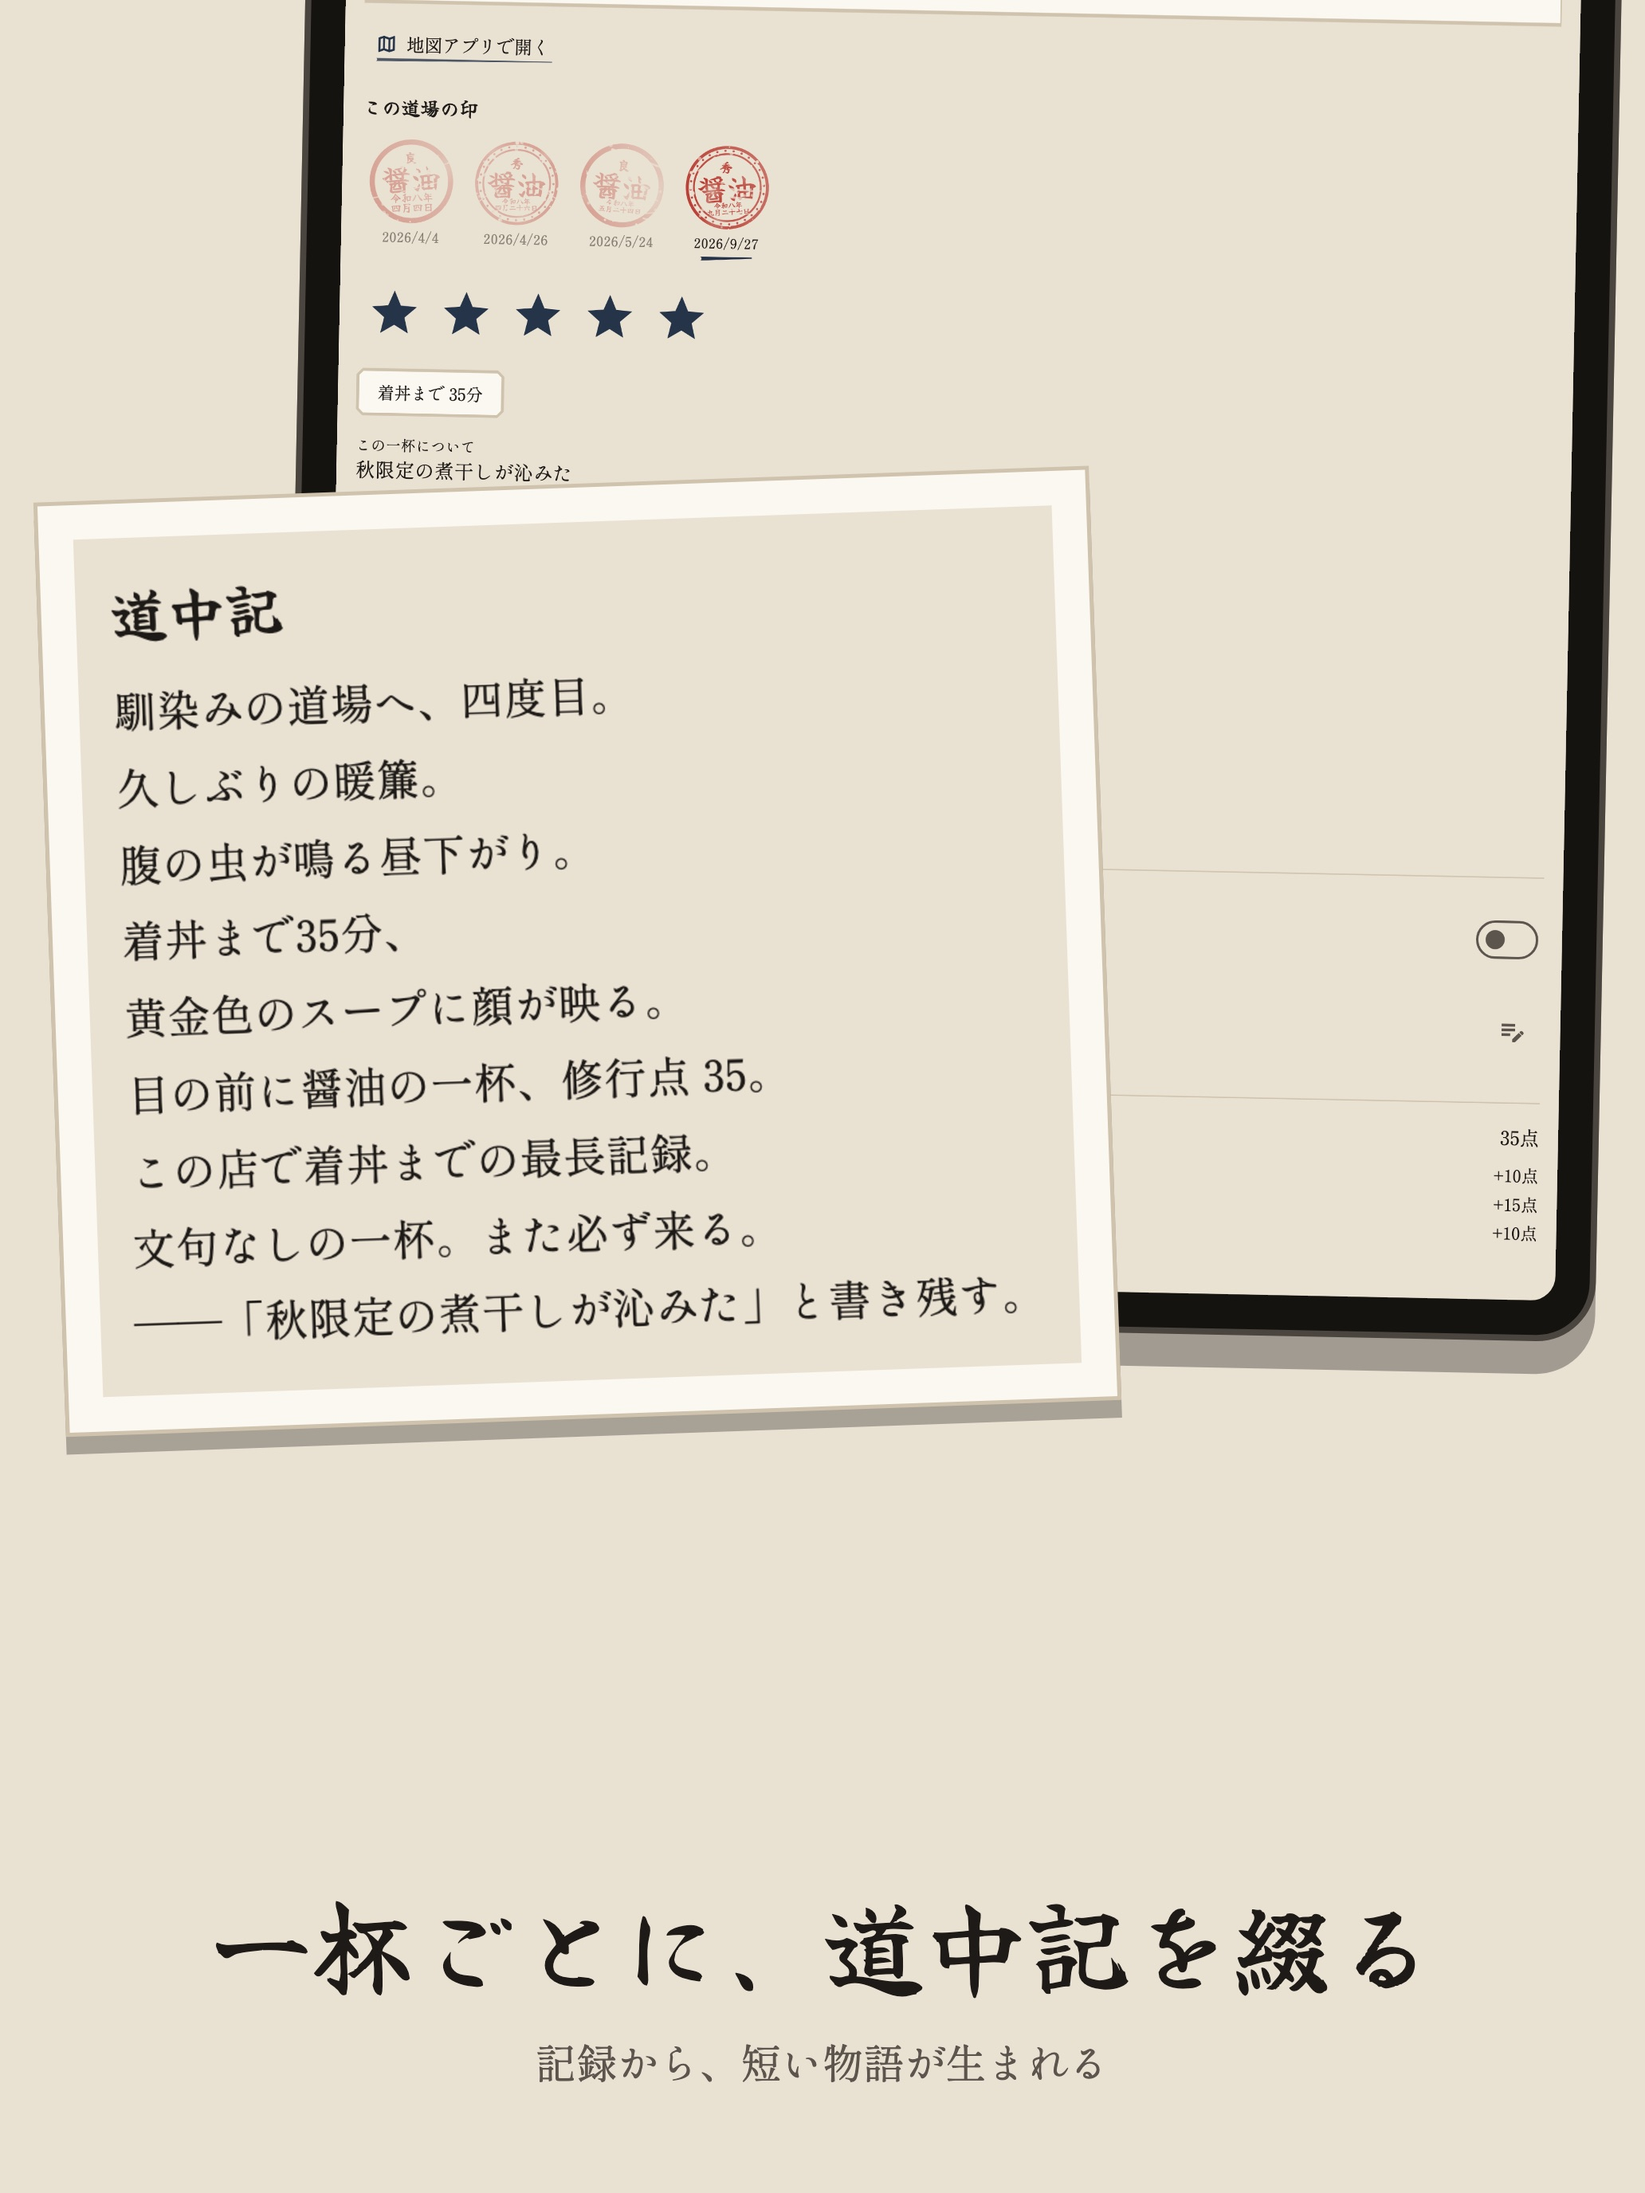
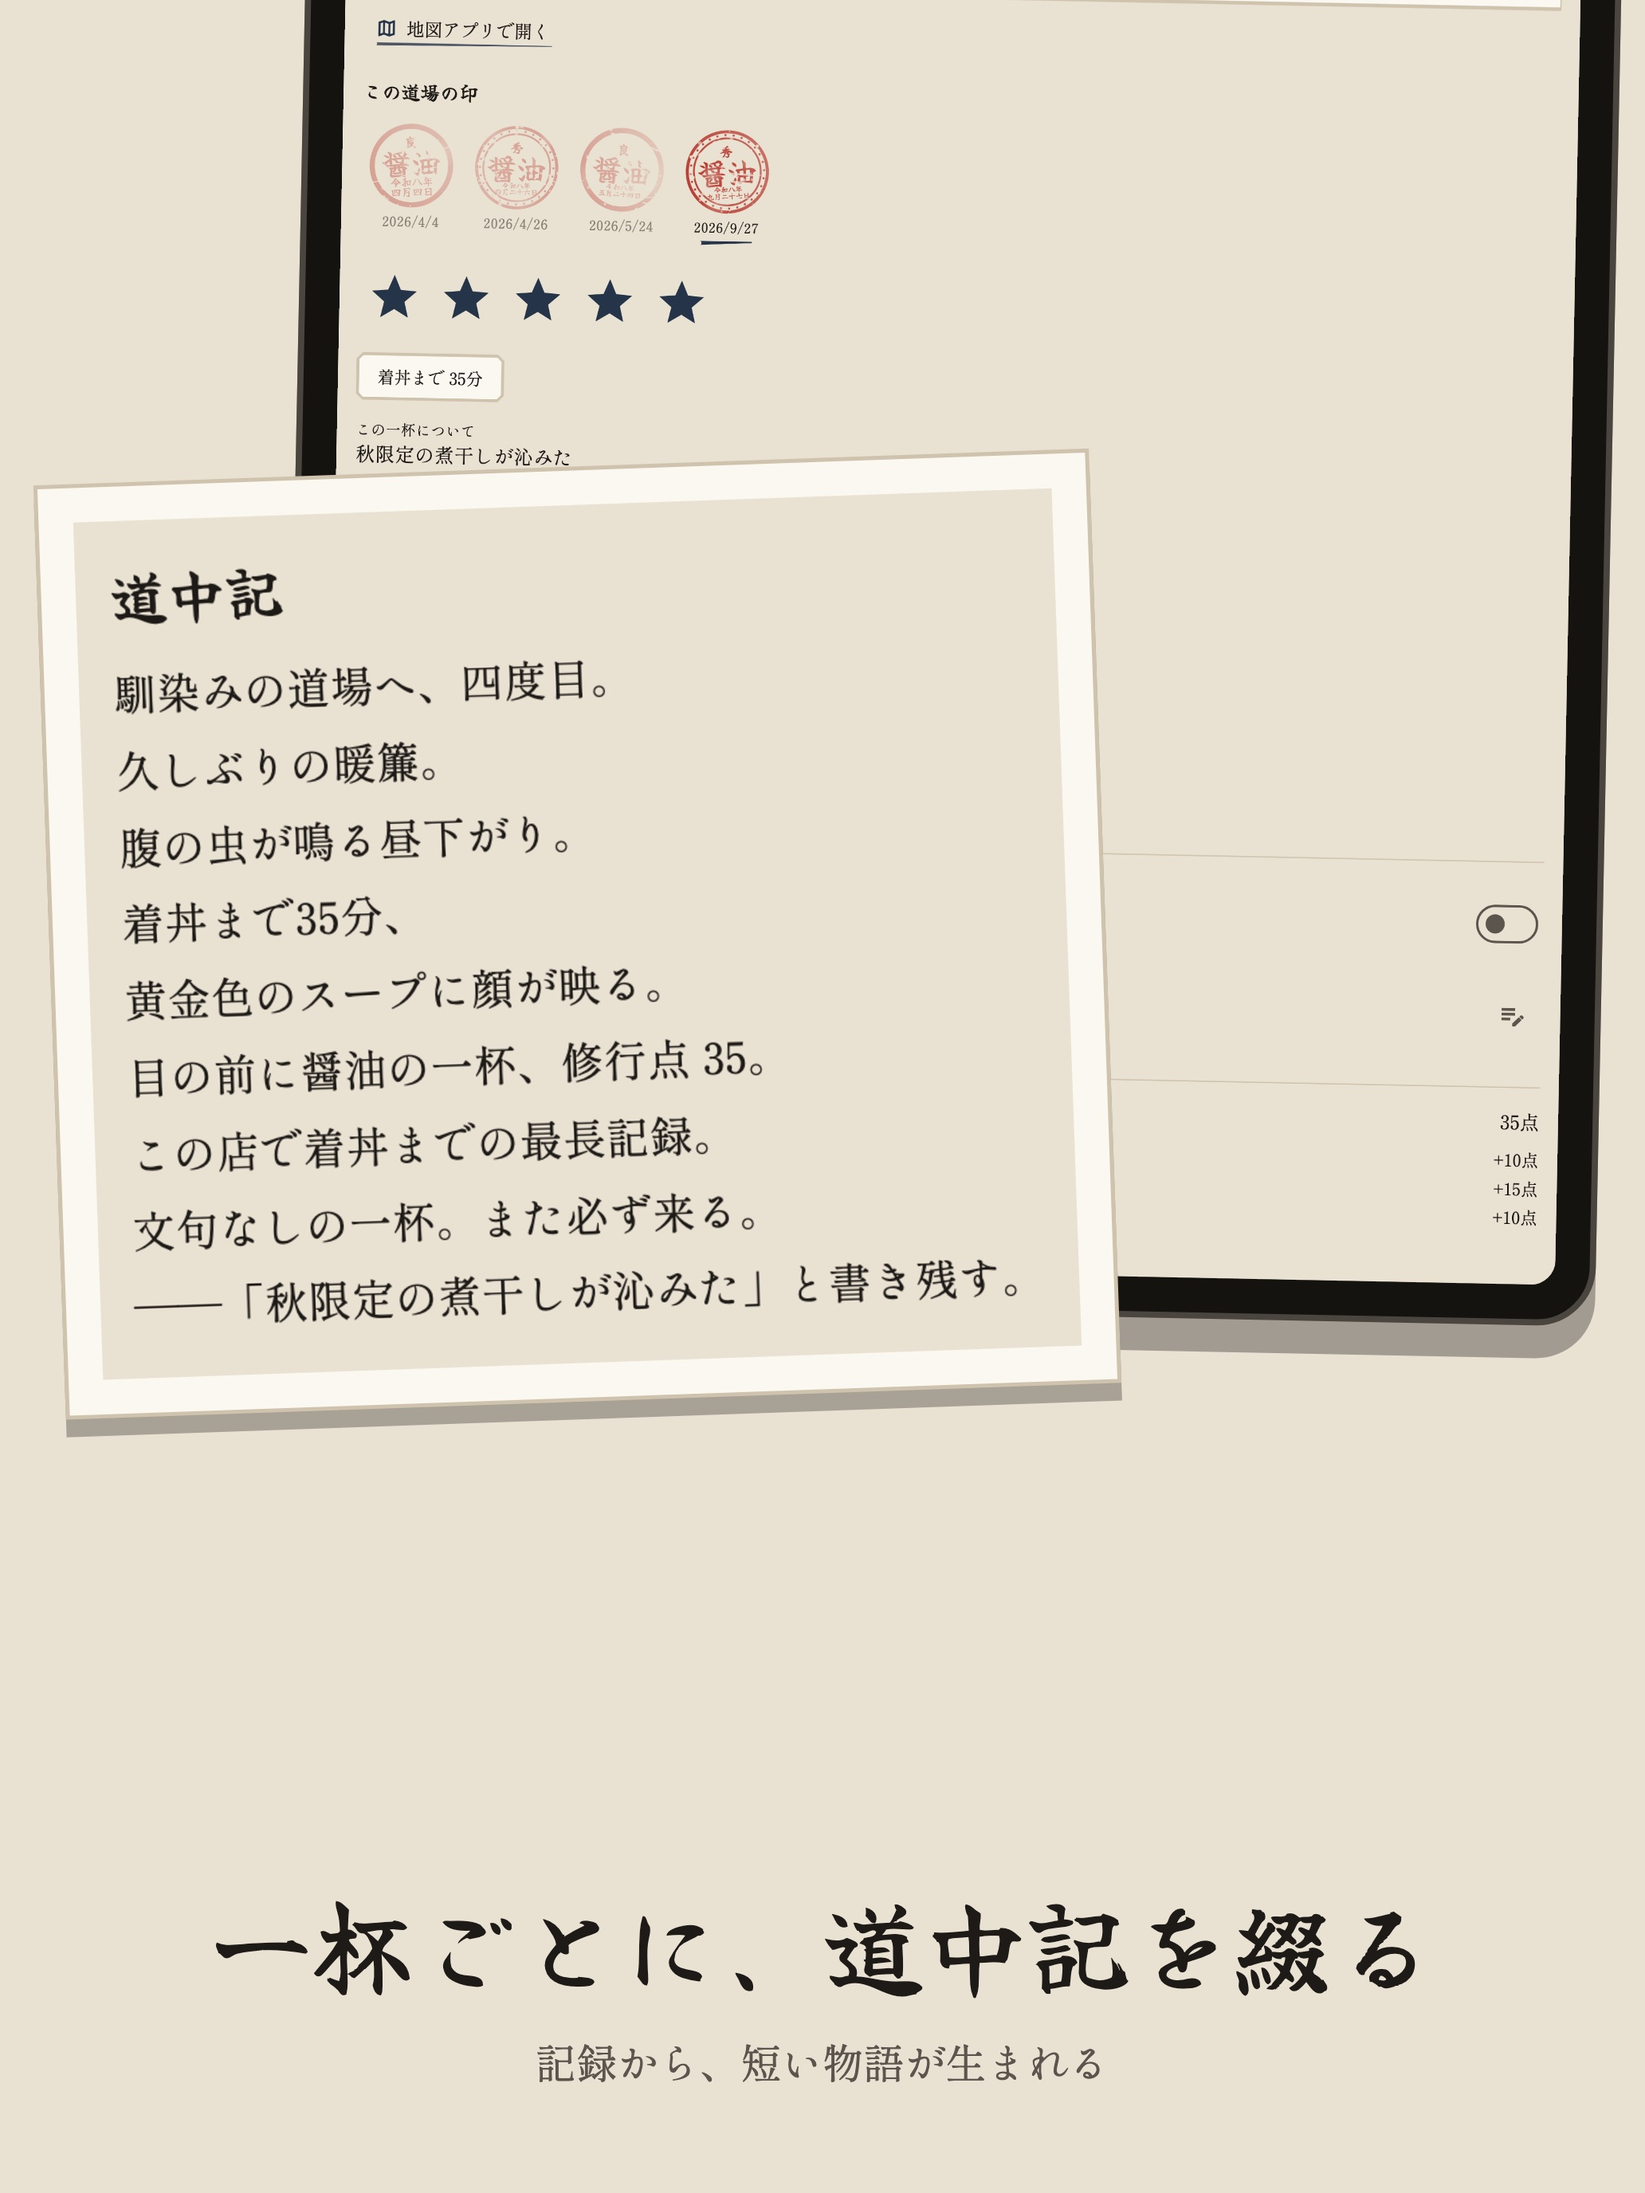
ストアの6枚目と7枚目の置き方を、端末の枠の計算に合わせて直す

diff --git a/test/tool/store_shots_test.dart b/test/tool/store_shots_test.dart
@@ -436,14 +436,22 @@ final _trips = [
   ]),
 ];
 
-/// 画面の外に散らす、遠くの都道府県の印。
+/// 端末の周りに散らす、遠くの都道府県の印。京都は、iPad では画面の中に見えるので電話だけ。
 const _scatteredTrips = ['p-hokkaido', 'p-fukuoka', 'p-kyoto'];
+
+List<String> _scatteredFor(StoreDevice device) =>
+    device.isTablet ? _scatteredTrips.take(2).toList() : _scatteredTrips;
+
+final _tripShops = {
+  for (final trip in _trips)
+    trip.id: _shop(trip.id, trip.name, trip.lat, trip.lng),
+};
 
 List<VisitWithShop> _tripVisits() => [
   for (final trip in _trips)
     for (final (index, at) in trip.at.indexed)
       VisitWithShop(
-        shop: _shop(trip.id, trip.name, trip.lat, trip.lng),
+        shop: _tripShops[trip.id]!,
         visit: buildVisit(
           id: '${trip.id}-$index',
           shopId: trip.id,
@@ -457,9 +465,7 @@ List<VisitWithShop> _tripVisits() => [
 final _prefectureWorld = ShotWorld(
   visits: _tripVisits(),
   wishes: const [],
-  shops: [
-    for (final trip in _trips) _shop(trip.id, trip.name, trip.lat, trip.lng),
-  ],
+  shops: [..._tripShops.values],
   found: const [],
   homeBases: [
     buildHomeBase(
@@ -1120,14 +1126,16 @@ class _Composition extends StatelessWidget {
     final tablet = device.isTablet;
     final width = _fit(tablet ? 0.8 : 0.84, 0.9);
     final height = width * _aspect;
-    final unit = height / device.screen.height;
-    final deviceTop = tablet ? h * 0.03 - screen.anchor! * unit : below;
+    // 画面は枠の内側に、幅に合わせて描かれる（_DeviceFrame と同じ計算）。
+    final bezel = _DeviceFrame.bezelFor(device, width);
+    final unit = (width - bezel * 2) / device.screen.width;
+    final deviceTop = tablet ? h * 0.03 - bezel - screen.anchor! * unit : below;
     final zoom = screen.zoom!;
     final slipWidth = w * (tablet ? 0.6 : 0.72);
     final slipHeight = slipWidth * zoom.height / zoom.width;
     final slipBottom = tablet ? h - _captionHeight - h * 0.07 : h - h * 0.04;
     // 拡大した紙の上端を、画面の中の道中記の高さに合わせる。
-    final journalTop = deviceTop + zoom.top * unit;
+    final journalTop = deviceTop + bezel + zoom.top * unit;
     return [
       if (!tablet) _headline(top),
       _device(
@@ -1156,7 +1164,7 @@ class _Composition extends StatelessWidget {
   /// 7枚目: 都道府県の印帳をまっすぐ見せ、遠くの都道府県の印を周りに散らす。
   List<Widget> _prefecture(double top, double below) {
     final width = _fit(
-      device.isTablet ? 0.66 : 0.64,
+      device.isTablet ? 0.76 : 0.64,
       (h - below - h * 0.03) / h,
     );
     final height = width * _aspect;
@@ -1171,7 +1179,7 @@ class _Composition extends StatelessWidget {
     return [
       _headline(top),
       _device(screens.single, left: (w - width) / 2, top: below, width: width),
-      for (final (index, id) in _scatteredTrips.indexed)
+      for (final (index, id) in _scatteredFor(device).indexed)
         Positioned(
           left: spots[index].left,
           top: spots[index].top,
